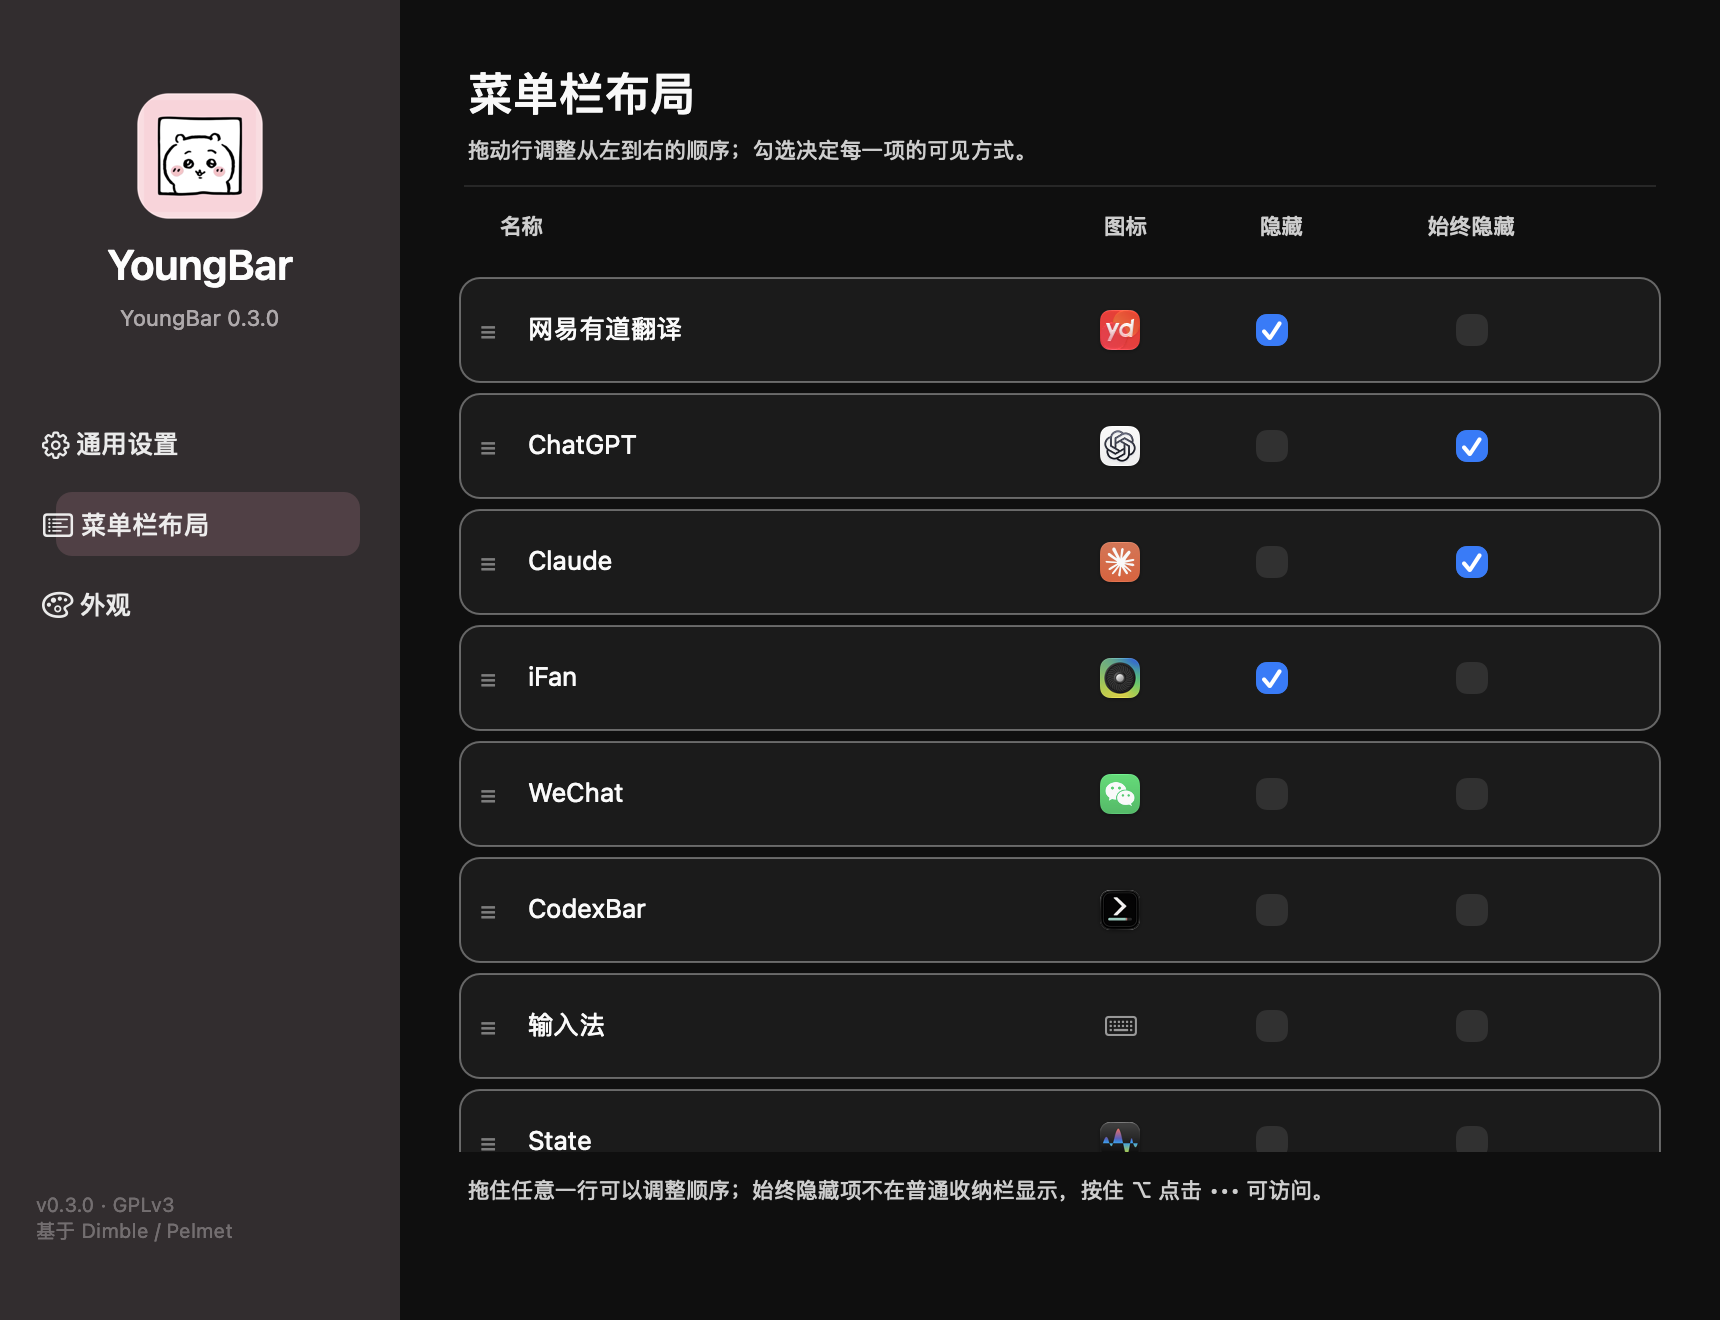
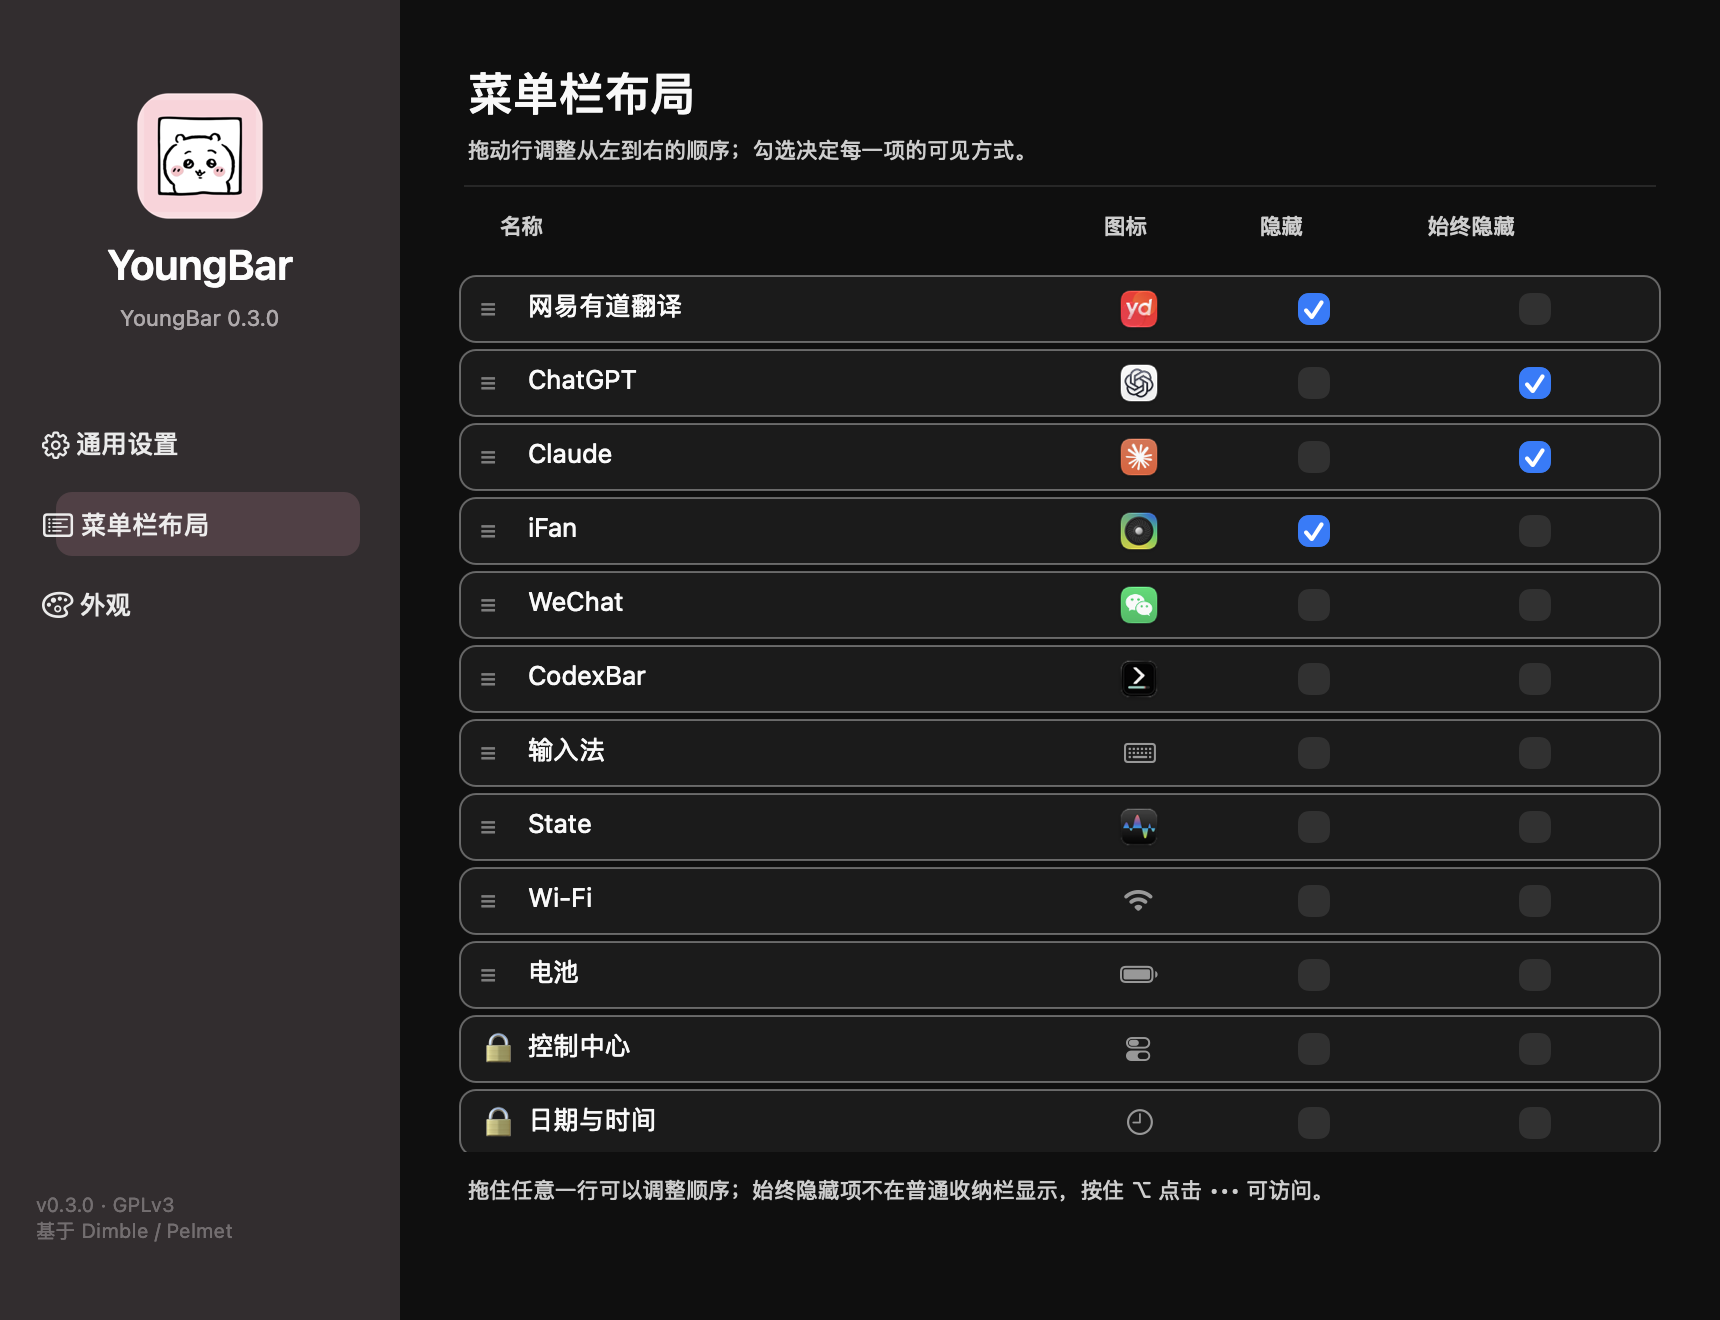
feat(youngbar): 布局页行高自适应，一页放下全部项目
- 行高按条目数在 27–46pt 之间计算，间距 4pt
- 12 项一屏显示，不需要滚动
- 超出容量才显示滚动条
- 截图与第 130 轮日志

diff --git a/Sources/YoungBar/BarSettings.swift b/Sources/YoungBar/BarSettings.swift
@@ -32,6 +32,7 @@ final class BarSettings: NSObject, NSTableViewDataSource, NSTableViewDelegate {
     private let layoutPage = NSView()
     private let appearancePage = NSView()
     private let table = NSTableView()
+    private let layoutScroll = NSScrollView()
     private let pasteType = NSPasteboard.PasteboardType("dev.leorea.youngbar.layout")
     private var navButtons: [String: SidebarButton] = [:]
     private var currentPage = "general"
@@ -245,10 +246,23 @@ final class BarSettings: NSObject, NSTableViewDataSource, NSTableViewDelegate {
         generalPage.addSubview(messageField)
     }
 
+    private func updateRowHeight() {
+        let count = max(1, entries.count)
+        let available = layoutScroll.contentSize.height
+        let spacing: CGFloat = 4
+        let proposed = (available - spacing * CGFloat(count - 1)) / CGFloat(count)
+        let height = floor(min(46, max(27, proposed)))
+        table.rowHeight = height
+        table.intercellSpacing = NSSize(width: 0, height: spacing)
+        let total = height * CGFloat(count) + spacing * CGFloat(count - 1)
+        layoutScroll.hasVerticalScroller = total > available + 1
+        table.sizeToFit()
+    }
+
     private func buildLayoutPage() {
         addHeader(to: layoutPage, title: "菜单栏布局", subtitle: "拖动行调整从左到右的顺序；勾选决定每一项的可见方式。")
 
-        table.rowHeight = 52
+        table.rowHeight = 44
         table.style = .plain
         table.headerView = nil
         table.backgroundColor = .clear
@@ -265,12 +279,12 @@ final class BarSettings: NSObject, NSTableViewDataSource, NSTableViewDelegate {
         table.registerForDraggedTypes([pasteType])
         table.setDraggingSourceOperationMask(.move, forLocal: true)
 
-        let scroll = NSScrollView(frame: NSRect(x: 24, y: 84, width: 612, height: 440))
-        scroll.hasVerticalScroller = true
-        scroll.borderType = .noBorder
-        scroll.drawsBackground = false
-        scroll.documentView = table
-        layoutPage.addSubview(scroll)
+        layoutScroll.frame = NSRect(x: 24, y: 84, width: 612, height: 440)
+        layoutScroll.hasVerticalScroller = false
+        layoutScroll.borderType = .noBorder
+        layoutScroll.drawsBackground = false
+        layoutScroll.documentView = table
+        layoutPage.addSubview(layoutScroll)
 
         for (title, x) in [("名称", 48.0), ("图标", 350.0), ("隐藏", 428.0), ("始终隐藏", 512.0)] {
             let label = label(title, NSRect(x: x, y: 538, width: 90, height: 16), .systemFont(ofSize: 11, weight: .medium))
@@ -457,6 +471,7 @@ final class BarSettings: NSObject, NSTableViewDataSource, NSTableViewDelegate {
                 launchAtLogin: Bool, options: [String: Int]) {
         let changed = self.entries.map { "\($0.key):\($0.mode)" } != entries.map { "\($0.key):\($0.mode)" }
         self.entries = entries
+        updateRowHeight()
         if changed { table.reloadData() }
 
         loginCheck.state = launchAtLogin ? .on : .off
@@ -527,8 +542,9 @@ final class BarSettings: NSObject, NSTableViewDataSource, NSTableViewDelegate {
         let entry = entries[row]
         switch column?.identifier.rawValue {
         case "icon":
-            let view = NSView(frame: NSRect(x: 0, y: 0, width: 70, height: 52))
-            let image = NSImageView(frame: NSRect(x: 24, y: 14, width: 24, height: 24))
+            let rowHeight = tableView.rowHeight
+            let view = NSView(frame: NSRect(x: 0, y: 0, width: 70, height: rowHeight))
+            let image = NSImageView(frame: NSRect(x: 24, y: (rowHeight - 22) / 2, width: 22, height: 22))
             image.image = entry.image
             image.imageScaling = .scaleProportionallyDown
             view.addSubview(image)
@@ -537,20 +553,21 @@ final class BarSettings: NSObject, NSTableViewDataSource, NSTableViewDelegate {
             let isHide = column?.identifier.rawValue == "hide"
             let mode = isHide ? 1 : 2
             let button = NSButton(checkboxWithTitle: "", target: self, action: #selector(rowModeChanged(_:)))
-            button.frame = NSRect(x: isHide ? 34 : 44, y: 16, width: 20, height: 20)
+            button.frame = NSRect(x: isHide ? 34 : 44, y: (tableView.rowHeight - 18) / 2, width: 18, height: 18)
             button.identifier = .init("\(entry.key)|\(mode)")
             button.state = entry.mode == mode ? .on : .off
-            let view = NSView(frame: NSRect(x: 0, y: 0, width: column?.width ?? 70, height: 52))
+            let view = NSView(frame: NSRect(x: 0, y: 0, width: column?.width ?? 70, height: tableView.rowHeight))
             view.addSubview(button)
             return view
         default:
-            let view = NSView(frame: NSRect(x: 0, y: 0, width: 300, height: 52))
+            let rowHeight = tableView.rowHeight
+            let view = NSView(frame: NSRect(x: 0, y: 0, width: 300, height: rowHeight))
             let handle = NSTextField(labelWithString: entry.pinned ? "🔒" : "≡")
-            handle.frame = NSRect(x: 14, y: 16, width: 18, height: 18)
+            handle.frame = NSRect(x: 14, y: (rowHeight - 18) / 2, width: 18, height: 18)
             handle.textColor = .tertiaryLabelColor
             view.addSubview(handle)
             let label = NSTextField(labelWithString: entry.name)
-            label.frame = NSRect(x: 38, y: 15, width: 254, height: 20)
+            label.frame = NSRect(x: 38, y: (rowHeight - 20) / 2, width: 254, height: 20)
             label.lineBreakMode = .byTruncatingTail
             if entry.pinned {
                 label.toolTip = "位置由 macOS 固定在菜单栏最右端，不能拖动；隐藏仍然可用"
@@ -599,8 +616,8 @@ final class BarSettings: NSObject, NSTableViewDataSource, NSTableViewDelegate {
 
 final class LayoutRowView: NSTableRowView {
     override func drawBackground(in dirtyRect: NSRect) {
-        let rect = bounds.insetBy(dx: 6, dy: 3)
-        let path = NSBezierPath(roundedRect: rect, xRadius: 10, yRadius: 10)
+        let rect = bounds.insetBy(dx: 6, dy: 2)
+        let path = NSBezierPath(roundedRect: rect, xRadius: 8, yRadius: 8)
         NSColor.labelColor.withAlphaComponent(0.05).setFill()
         path.fill()
         NSColor.separatorColor.withAlphaComponent(0.35).setStroke()
@@ -613,8 +630,8 @@ final class LayoutRowView: NSTableRowView {
     }
 
     override func drawDraggingDestinationFeedback(in dirtyRect: NSRect) {
-        let rect = bounds.insetBy(dx: 6, dy: 3)
-        let path = NSBezierPath(roundedRect: rect, xRadius: 10, yRadius: 10)
+        let rect = bounds.insetBy(dx: 6, dy: 2)
+        let path = NSBezierPath(roundedRect: rect, xRadius: 8, yRadius: 8)
         NSColor.controlAccentColor.withAlphaComponent(0.16).setFill()
         path.fill()
     }

diff --git a/docs/STATUS.md b/docs/STATUS.md
@@ -40,7 +40,8 @@
 | 收纳条 | ✅ 黑色圆角条 | `docs/images/shelf.png` |
 | 统一窗口 | ✅ `fullSizeContentView`，无独立标题栏；红黄绿浮在玻璃上 | `docs/images/settings-unified.png` |
 | 设置窗口玻璃 | ✅ `NSGlassEffectView` + 主题染色 + 深浅 scrim | `docs/images/settings-glass-{dark,light}.png` |
-| 卡片式布局 | ✅ 每条独立圆角行，整行可拖，无表头/边框 | `docs/images/settings-layout.png` |
+| 卡片式布局 | ✅ 每条独立圆角行，整行可拖，无表头/边框 |
+| 一页布局 | ✅ 行高按项目数自动压缩，12 项一屏放下 | `docs/images/settings-layout.png` | `docs/images/settings-layout.png` |
 | 布局顺序校准 | ✅ 新项按真实 x 插入；可见项每次刷新校准并持久化 | `itemOrder` 以有道翻译开头；`docs/images/settings-layout.png` |
 | 外观主题 | ✅ 深/浅/跟随系统 + 4 主题色 + 3 种收纳条 | `docs/images/appearance-{dark,light}.png`、`shelf-sakura.png` |
 | 关于窗口 | ✅ 菜单打开，显示版本 0.3.0 (3) | `abouttest.json`；`docs/images/about.png` |
